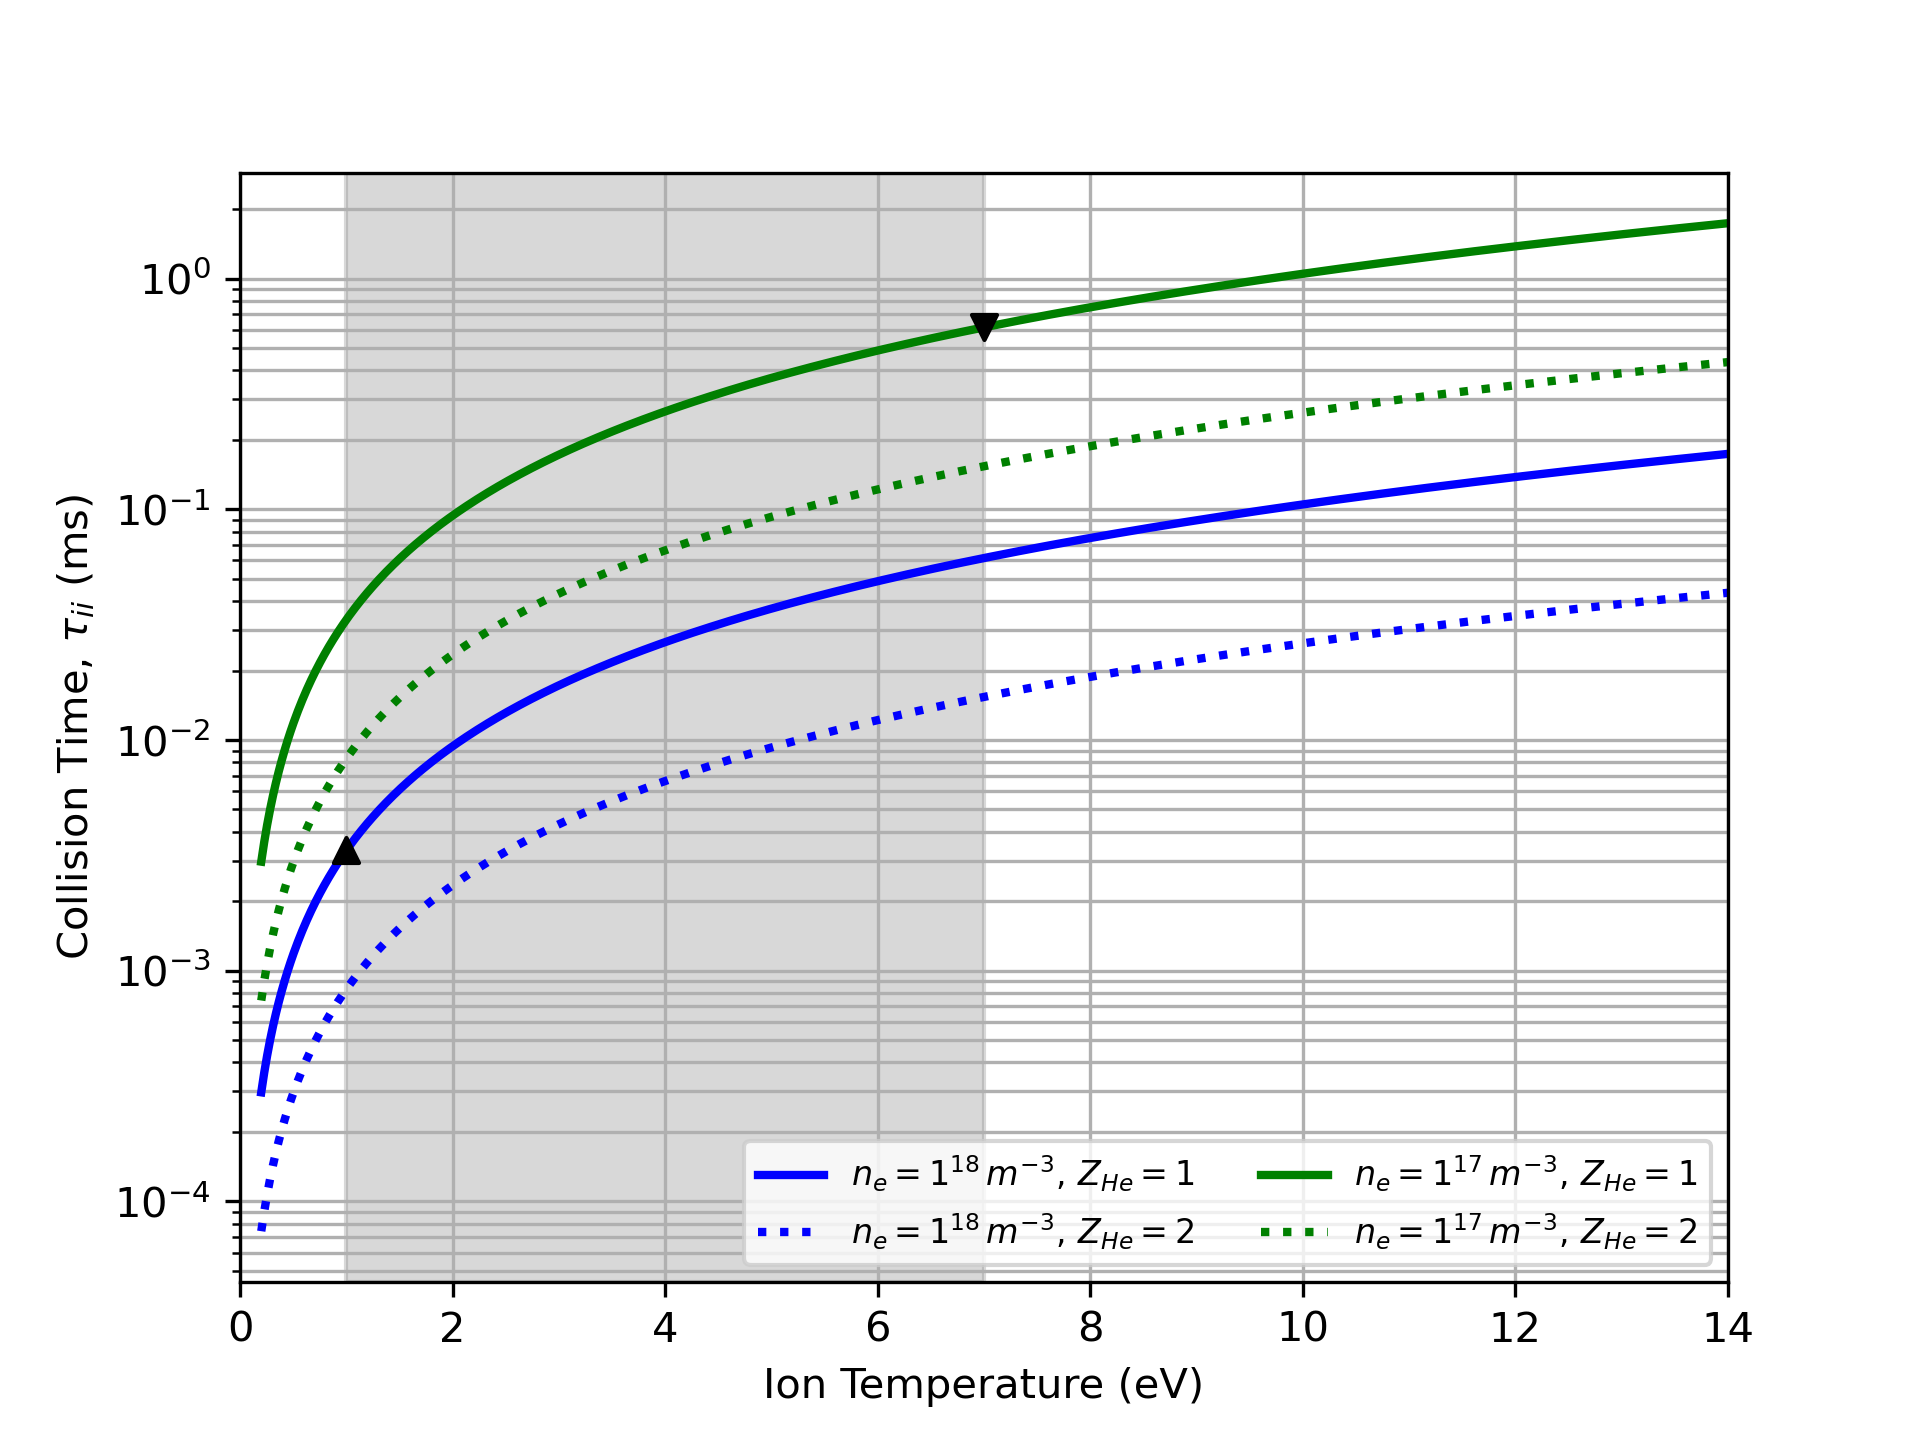
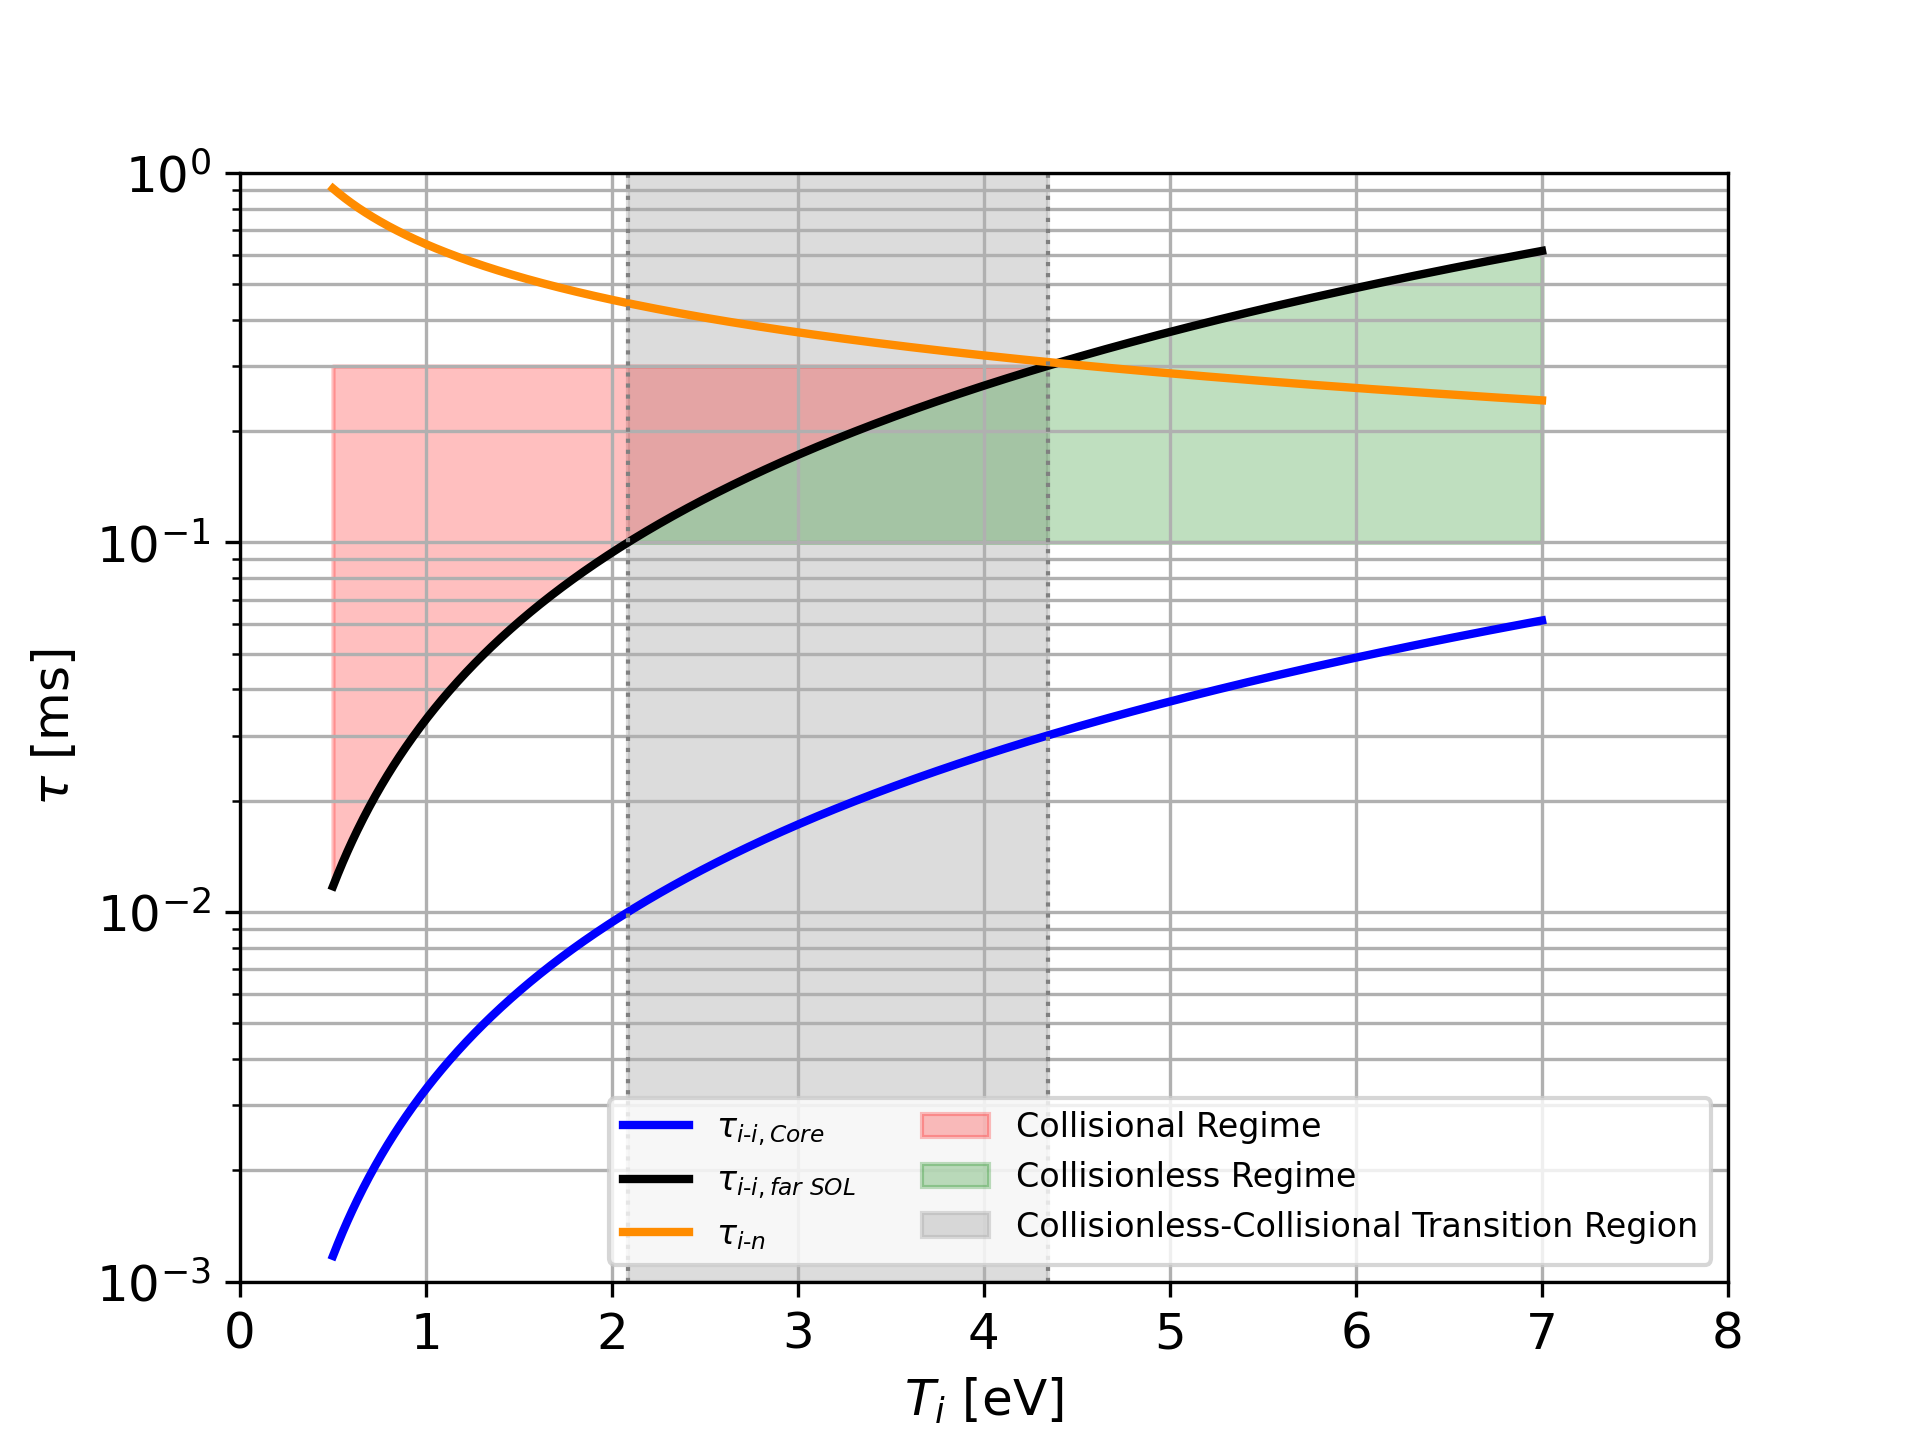
Reformatted collision frequency and ion residency plots for article

diff --git a/coll_freq_calculator.py b/coll_freq_calculator.py
@@ -7,6 +7,18 @@ import pandas as pd
 import matplotlib.pyplot as plt
 import classes.class_outputHandler as out
 from classes.mesh import *
+plt.rcParams.update({
+    # --- fonts & text (IOP-friendly, ~8–12 pt at final size) ---
+    #"font.family": "serif",
+    #"font.serif": ["Times New Roman", "Times", "Nimbus Roman", "DejaVu Serif"],
+    "mathtext.fontset": "dejavusans",
+    "axes.titlesize": 10,
+    "axes.labelsize": 12,
+    #"axes.labelweight": "bold",
+    "xtick.labelsize": 12,
+    "ytick.labelsize": 12,
+    "lines.linewidth": 1.0,
+})
 
 def collision_freq(ne, Ti, m_bg, z_bg, m_imp, z_imp, ln_lambda):
     """
@@ -34,6 +46,26 @@ def collision_freq(ne, Ti, m_bg, z_bg, m_imp, z_imp, ln_lambda):
 
     return f_coll
 
+def ion_neutral_collision_freq(ng, Ti):
+    """
+    Calculate the ion-neutral collision frequency.
+    
+    Parameters:
+    ng (float): Neutral density (m^-3)
+    Ti (float): Ion temperature (eV)
+    
+    Returns:
+    float: Ion-neutral collision frequency (s^-1)
+    """
+    # Convert neutral density from m^-3 to cm^-3
+    ng_cm3 = ng * 1e-6
+    
+    # Calculate the ion-neutral collision frequency using a typical formula
+    f_in = 5.2e-15 * ng * np.sqrt(Ti)  # Example formula, adjust as needed
+    
+    return f_in
+
+
 def main():
     # Example parameters
     m_bg_amu = 4.002602  # Mass of background species (Helium) in amu
@@ -43,8 +75,8 @@ def main():
 
     #z_bg = 1.0        # Effective charge state of background species (Helium)
     #ne_m3 = 1e18  # Electron density in m^-3
-    ti_plot_low = 0.2   # Ion temperature in eV
-    ti_plot_high = 14.0 # Ion temperature in eV
+    ti_plot_low = 0.5   # Ion temperature in eV
+    ti_plot_high = 7.0 # Ion temperature in eV
     Ti_ev = np.linspace(ti_plot_low, ti_plot_high, 1000)   # Ion temperature in eV
 
     f_coll_ne18 = collision_freq(1e18, Ti_ev, m_bg_amu, 1.0, m_imp_amu, z_imp, ln_lambda)
@@ -60,42 +92,88 @@ def main():
     tau_coll_ne18_z2He_ms = 1e3 / f_coll_ne18_z2He
     tau_coll_ne17_z2He_ms = 1e3 / f_coll_ne17_z2He
 
-    # extract the value of tau_coll_ne18_ms at Ti = 2 eV
-    typical_ionTemp_lo = 1.0 # eV
+    ## 'operating' domain
+    tau_residence_hi_ms = 0.3 # E ms
+    tau_residence_lo_ms = 0.1 # E ms
+    typical_ionTemp_lo = 0.5 # eV
     typical_ionTemp_hi = 7.0 # eV
+    transition_temp_lo = Ti_ev[tau_coll_ne17_ms >= tau_residence_lo_ms][0]
+    transition_temp_hi = Ti_ev[tau_coll_ne17_ms >= tau_residence_hi_ms][0]
 
-    tau_coll_lo = tau_coll_ne18_ms[np.argmin(np.abs(Ti_ev - typical_ionTemp_lo))]
-    print(f'Collision time at Ti={typical_ionTemp_lo} eV and ne=1e18 m^-3: {tau_coll_lo:.2e} ms')
-    print(f'Collision frequency at Ti={typical_ionTemp_lo} eV and ne=1e18 m^-3: {f_coll_ne18[np.argmin(np.abs(Ti_ev - typical_ionTemp_lo))]:.2e} s^-1')
+    # tau_coll_lo = tau_coll_ne18_ms[np.argmin(np.abs(Ti_ev - typical_ionTemp_lo))]
+    # print(f'Collision time at Ti={typical_ionTemp_lo} eV and ne=1e18 m^-3: {tau_coll_lo:.2e} ms')
+    # print(f'Collision frequency at Ti={typical_ionTemp_lo} eV and ne=1e18 m^-3: {f_coll_ne18[np.argmin(np.abs(Ti_ev - typical_ionTemp_lo))]:.2e} s^-1')
 
+    tau_coll_lo = tau_coll_ne17_ms[np.argmin(np.abs(Ti_ev - typical_ionTemp_lo))]
     tau_coll_hi = tau_coll_ne17_ms[np.argmin(np.abs(Ti_ev - typical_ionTemp_hi))]
+    print(f'Collision time at Ti={typical_ionTemp_lo} eV and ne=1e17 m^-3: {tau_coll_lo:.2e} ms')
     print(f'Collision time at Ti={typical_ionTemp_hi} eV and ne=1e17 m^-3: {tau_coll_hi:.2e} ms')
-    print(f'Collision frequency at Ti={typical_ionTemp_hi} eV and ne=1e17 m^-3: {f_coll_ne17[np.argmin(np.abs(Ti_ev - typical_ionTemp_hi))]:.2e} s^-1')
+    #print(f'Collision frequency at Ti={typical_ionTemp_hi} eV and ne=1e17 m^-3: {f_coll_ne17[np.argmin(np.abs(Ti_ev - typical_ionTemp_hi))]:.2e} s^-1')
+
+    f_ionNeutral_coll = ion_neutral_collision_freq(3e17, Ti_ev)  # Example neutral density of 1e19 m^-3
+    tau_ionNeutral_coll_ms = 1e3 / f_ionNeutral_coll
+    #print(f'Ion-neutral collision frequency at Ti={typical_ionTemp_lo} eV and ng=3e17 m^-3: {f_ionNeutral_coll[np.argmin(np.abs(Ti_ev - typical_ionTemp_lo))]:.2e} s^-1')
+    print(f'Ion-neutral collision time at Ti={typical_ionTemp_lo} eV and ng=3e17 m^-3: {tau_ionNeutral_coll_ms[np.argmin(np.abs(Ti_ev - typical_ionTemp_lo))]:.2e} ms') 
+    print(f'Ion-neutral collision time at Ti={typical_ionTemp_hi} eV and ng=3e17 m^-3: {tau_ionNeutral_coll_ms[np.argmin(np.abs(Ti_ev - typical_ionTemp_hi))]:.2e} ms') 
+
+    tau_star_lo_lowTemp = tau_residence_lo_ms / tau_coll_lo
+    tau_star_hi_lowTemp = tau_residence_hi_ms / tau_coll_lo
+    tau_star_lo_highTemp = tau_residence_lo_ms / tau_coll_hi
+    tau_star_hi_highTemp = tau_residence_hi_ms / tau_coll_hi
+    print(f'At Ti={typical_ionTemp_lo} eV and ne=1e17 m^-3, tau* ranges from {tau_star_lo_lowTemp:.2e} to {tau_star_hi_lowTemp:.2e}')
+    print(f'At Ti={typical_ionTemp_hi} eV and ne=1e17 m^-3, tau* ranges from {tau_star_lo_highTemp:.2e} to {tau_star_hi_highTemp:.2e}')
+
+
+
 
 
     plt.figure()
     plt.plot(Ti_ev, tau_coll_ne18_ms, marker='none', linewidth=2,
-              linestyle='-', color='blue', label='$n_e=1^{18} \, m^{-3}, \\, Z_{He}=1$')
-    plt.plot(Ti_ev, tau_coll_ne18_z2He_ms, marker='none', linewidth=2,
-              linestyle=':', color='blue', label='$n_e=1^{18} \, m^{-3}, \\, Z_{He}=2$')  
-
-
+             linestyle='-', color='blue', label='$\\tau_{i\\text{-}i,Core}$')
+             #linestyle='-', color='blue', label='$\\tau_{i\\text{-}i},~n_e=10^{18}$')
     plt.plot(Ti_ev, tau_coll_ne17_ms, marker='none', linewidth=2,
-              linestyle='-', color='green', label='$n_e=1^{17} \, m^{-3}, \\, Z_{He}=1$')
-    plt.plot(Ti_ev, tau_coll_ne17_z2He_ms, marker='none', linewidth=2,
-              linestyle=':', color='green', label='$n_e=1^{17} \, m^{-3}, \\, Z_{He}=2$')
+              linestyle='-', color='black', label='$\\tau_{i\\text{-}i,far~SOL}$')
+    plt.plot(Ti_ev, tau_ionNeutral_coll_ms, marker='none', linewidth=2,
+              linestyle='-', color='darkorange', label='$\\tau_{i\\text{-}n}$')
+              #linestyle='--', color='red', label='$\\tau_{i\\text{-}n}$')
 
-    plt.scatter(typical_ionTemp_lo, tau_coll_lo, marker='^', color='black', zorder=6)#, label='$n_e=1^{16} \, m^{-3}, \\, Z_{He}=1$')
-    plt.scatter(typical_ionTemp_hi, tau_coll_hi, marker='v', color='black', zorder=6)#, label='$n_e=1^{16} \, m^{-3}, \\, Z_{He}=1$')
 
-    plt.xlabel('Ion Temperature (eV)')
-    plt.ylabel('Collision Time, $\\tau_{ii}$ (ms)')
-    #plt.title('Collision Time vs Ion Temperature')
+    #collisional_bottom_line = np.maximum(tau_coll_ne17_ms, tau_residence_lo_ms)
+    collisional_bottom_line = tau_coll_ne17_ms
+    collisional_top_line = np.full_like(tau_coll_ne17_ms, tau_residence_hi_ms)
+    collisional_span = (Ti_ev >= typical_ionTemp_lo) & (Ti_ev <= transition_temp_hi)
+    plt.fill_between(Ti_ev[collisional_span],
+                        collisional_bottom_line[collisional_span],
+                        collisional_top_line[collisional_span],
+                        color='red', alpha=0.25, label='Collisional Regime')
+    
+    #collisionless_top_line = np.minimum(tau_coll_ne17_ms, tau_residence_hi_ms)
+    #collisionless_top_line = np.minimum(tau_coll_ne17_ms, tau_ionNeutral_coll_ms)
+    collisionless_top_line = tau_coll_ne17_ms
+    collisionless_botom_line = np.full_like(tau_coll_ne17_ms, tau_residence_lo_ms)
+    collisionless_span = (Ti_ev <= typical_ionTemp_hi) & (Ti_ev >= transition_temp_lo)
+    plt.fill_between(Ti_ev[collisionless_span], 
+                        collisionless_botom_line[collisionless_span],
+                        collisionless_top_line[collisionless_span],
+                        color='green', alpha=0.25, label='Collisionless Regime')
+
+
+    plt.axvspan(transition_temp_lo, transition_temp_hi,
+                 color='darkgray', alpha=0.4, label='Collisionless-Collisional Transition Region', zorder=0)
+    plt.axvline(transition_temp_lo, color='gray', linestyle=':')#, label='Typical Operating Range')
+    plt.axvline(transition_temp_hi, color='gray', linestyle=':')#, label='Typical Operating Range')
+    # plt.axhspan(tau_residence_lo_ms, tau_residence_hi_ms, color='gray', alpha=0.3, label='Residence Time Range')
+    # plt.axvspan(typical_ionTemp_lo, typical_ionTemp_hi, color='gray', alpha=0.3, label='Operating Range')
+
+    plt.xlabel('$T_i~\\text{[eV]}$')
+    plt.ylabel('$\\tau~\\text{[ms]}$')#_{i\\text{-}i}~\\text{[ms]}$')
+  
     plt.grid(which='both')
-    plt.axvspan(typical_ionTemp_lo, typical_ionTemp_hi, color='gray', alpha=0.3)#, label='Typical Core-Edge Ion Temperature Range')
-    plt.xlim(0, ti_plot_high)
+    plt.xlim(0, 8)#ti_plot_high)
+    plt.ylim(1e-3, 1e0)#ti_plot_high)
     plt.yscale('log')
     plt.legend(loc='lower right', fontsize=8, ncol=2)
+    #plt.tight_layout()
     #plt.show()
     plt.savefig("collision_time_vs_Ti.png", dpi=300)
 

diff --git a/plot_SurvivalFunctions.py b/plot_SurvivalFunctions.py
@@ -1,0 +1,202 @@
+## IMPORTS
+import numpy as np
+from time import perf_counter
+
+from classes.iohandler import IOHandler
+from classes.meshNew import *
+from plot_InitEnergies import FIELD_SCALE_ELECTRIC, ION_TEMP
+from utility.coordtrans import *
+from utility.anlys_funcs import *
+from classes.particle import *
+#import plot_funcs.plotFuncs as plotFuncs
+from plot_funcs.plotFuncs import *
+
+## SOME PHYSICAL CONSTANTS
+kg_per_amu = 1.660_539_068E-27
+kboltz = 1.602_176_634E-19 # Joules/eV
+Li_mass = 6.941 #amu
+He_mass = 4.002602 #amu
+
+
+## SET SIMULATION INPUTS: ##
+
+INPUT_DIRECTORY_NAME = "It-0486_Ih-0900_noErr_1500sp_LSODA1e8"
+# INITIAL CONDITIONS
+LCFS_INDEX = 40 #30 #29 #40 (from Poincare output (simIO.log))
+DELTRS = [0.000] # [m]
+NPHI = 180
+NTHETA = 120
+NPARTICLES_PER_EMITTER = 50
+# SIMULATION PARAMETERS
+DT = 1e-8 # [s]
+TMAX = 0.0010 # [s]
+NSTEPS = int(TMAX / DT)
+# ION PROPERTIES
+ION_MASS = Li_mass # [amu]
+CHARGE_NUM = 1 # [Z]
+
+
+input_conditions = [
+    {#IonsVtime_0mm_LCFS40_5eV_120V_Z1_Lithium_FS40_tauRes_1p0m
+        "ION_TEMP": 5.0,  # [eV]
+        "FIELD_SCALE_ELECTRIC": 120.0,  # [Volts]
+        "TAG": "Lithium_FS40_tauRes_1p0ms",
+        "N_PARTICLES": 360000
+        },
+    {#IonsVtime_0mm_LCFS30_1eV_60V_Z1_Lithium_FS40_2
+        "ION_TEMP": 1.0,  # [eV]
+        "FIELD_SCALE_ELECTRIC": 60.0,  # [Volts]
+        "TAG": "Lithium_FS40_2",
+        "N_PARTICLES": 720000
+        },
+
+    {#IonsVtime_0mm_LCFS40_5eV_40V_Z1_Lithium_FS40_tauRes_1p0ms
+        "ION_TEMP": 5.0,  # [eV]
+        "FIELD_SCALE_ELECTRIC": 40.0,  # [Volts]
+        "TAG": "Lithium_FS40_tauRes_1p0ms",
+        "N_PARTICLES": 360000
+        },
+    {#IonsVtime_0mm_LCFS40_2eV_40V_Z1_Lithium_FS40_1p0ms_PHANGLE2
+        "ION_TEMP": 2.0,  # [eV]
+        "FIELD_SCALE_ELECTRIC": 40.0,  # [Volts]
+        "TAG": "Lithium_FS40_1p0ms_PHANGLE2",
+        "N_PARTICLES": 1080000
+        }
+    ]
+
+
+OUTPUT_DIRECTORY_NAME = 'SURVIVAL_TEST'
+
+def calculate_tau(maxN_array, tot_particles, tmax, dt):
+    """Plots the percent of particles running over time.
+        maxN_array is an array of maximum timestep for each particle.
+    """
+
+    # Calculate the number of particles running over time (efficiently)
+    time_steps = np.arange(0, tmax, dt)
+    time_ms = time_steps * 1000
+    sorted_maxTime = np.sort(maxN_array) * dt
+
+    immortal_particles = tot_particles - len(maxN_array)  # Count particles that never hit the wall
+    print(f"Immortal particles (never hit the wall): {immortal_particles} out of {tot_particles}")
+
+    # Use searchsorted to find how many particles have maxTime > t for each t
+    particles_running = len(sorted_maxTime) - np.searchsorted(sorted_maxTime, time_steps, side='right')
+
+
+    frac_running = (particles_running + immortal_particles) / tot_particles  # include immortal particles in the fraction running
+
+    # Estimate residence time using trapezoidal integration of the fraction running over time
+    tau_res = np.trapezoid(frac_running, dx=dt)
+    if frac_running[-1] > 0:
+        slope = (np.log(frac_running[-1]) - np.log(frac_running[-101])) / 100 / dt # use wider range for slope to reduce noise
+        slope = min(slope, -1e-1)  # prevent division by zero or very small slope
+        tau_res_corr = -frac_running[-1] / slope
+    else:
+        tau_res_corr = 0.0
+
+    tau_res_est = tau_res + tau_res_corr
+    tau_res_est_clamped = np.clip(tau_res_est, time_steps[0], time_steps[-1])
+    frac_at_tau_res = np.interp(tau_res_est_clamped, time_steps, frac_running)
+
+    return (tau_res, tau_res_corr, frac_at_tau_res, time_ms, frac_running)
+
+
+def plot_survivalFunction(out_conditions, in_conditions, runString='default', simIO=None):
+
+    plt.figure(figsize=(8, 5))
+
+    condition_colors = [
+        UIUC['il_stormdark1'],
+        UIUC['il_blue'],
+        UIUC['il_orange'],
+        UIUC['il_storm'],
+    ]
+    condition_markers = ['o', 's', 'D', '^']
+
+    for idx, (condition_out, condition_in) in enumerate(zip(out_conditions, in_conditions)):
+
+        cond_color = condition_colors[idx % len(condition_colors)] # %cycling
+
+
+        tau_res, tau_res_corr, frac_at_tau_res, time_ms, frac_running = condition_out
+        ion_temp = condition_in['ION_TEMP']
+        field_scale_electric = condition_in['FIELD_SCALE_ELECTRIC']
+
+        tau_res_est = tau_res + tau_res_corr
+    
+        plt.plot(time_ms, frac_running, color='k', linewidth=1.)#, label='Particles Running')
+        plt.fill_between(time_ms, frac_running, color=UIUC['il_blue'], alpha=0.25)
+
+        plt.scatter(tau_res_est*1000, frac_at_tau_res, marker=condition_markers[idx % len(condition_markers)], color=cond_color,
+                     label=f'$\\mathrm{{ {ion_temp}eV, {field_scale_electric:.0f}V}}$', zorder=5)
+        plt.vlines(tau_res_est*1000, 0.0, frac_at_tau_res,
+                 color=cond_color, linestyle='--',
+                   label=f'$\\tau={tau_res_est*1000:.3f}ms$', zorder=5)
+    
+
+
+
+    plt.xlabel('$t~[ms]$', fontsize=12)
+    plt.ylabel('$\\dfrac{N_{active}}{N_{total}}$', fontsize=12, rotation=0, labelpad=22)
+    # plt.title('Estimated Residence Time = {:.3f}$\\mathit{{(+{:.3f}ms~correction) }}$'
+    #           .format(tau_res*1000, tau_res_corr*1000), fontsize=12)
+
+
+    plt.xlim(0, time_ms[-1])    
+    plt.ylim(0, 1.05)
+    plt.xticks(np.arange(0, time_ms[-1]+0.1, 0.1), fontsize=12)
+    plt.yticks(fontsize=12)
+    plt.grid(which='both', linestyle='--', alpha=0.5)
+    plt.legend(loc='upper right', fontsize=9.5, ncols=4)
+    #plt.show()
+    plotname = 'IonsVtime_' + runString + '.png'
+    simIO.saveFig(plotname, dpi=300)
+    simIO.log.info('OUTPUT PLOT: {}, residence time = {:.3f}ms, corr = {:.3f}ms,'
+                   .format(plotname, tau_res*1000, tau_res_corr*1000))
+    plt.close()
+
+
+def main():
+    ## SET UP RUN DIRECTORY AND LOGGING
+    ## DATA AND PLOTS *WILL* BE OVERWRITTEN IF THE DIRECTORY ALREADY EXISTS!!
+    simOUT = IOHandler(OUTPUT_DIRECTORY_NAME) 
+    simOUT.startLog()
+    simIO = IOHandler(INPUT_DIRECTORY_NAME) 
+
+    output_conditions = []
+    ## LOAD DATA LOOP
+    for condition in input_conditions:
+        tag = condition['TAG']
+        ion_temp = condition['ION_TEMP']
+        field_scale_electric = condition['FIELD_SCALE_ELECTRIC']
+        N_particles = condition['N_PARTICLES']
+        simOUT.log.info('## RUNNING CONDITION: {} ##'.format(tag))
+
+        ## DEFINE STRING (FOR FILE NAME)
+        delimiter = '-'
+        dr_String = delimiter.join(str(int(dr*1000)) for dr in DELTRS)
+        cond_string = dr_String + 'mm_LCFS{}_{}eV_{}V_Z{}_'.format(
+            int(LCFS_INDEX), int(ion_temp), int(field_scale_electric), int(CHARGE_NUM)
+        )
+
+        ## LOAD WALL POINTS
+        filename = 'Wallpt_OUTPUT_' + cond_string + tag
+        outputArray = simIO.loadNumpyData(filename+'.npy')
+        max_timeStep = outputArray[6, :]  # max time step for each particle
+
+        output = calculate_tau(max_timeStep, N_particles, TMAX, DT)
+
+        print(f"Condition: {tag}, Estimated Residence Time = {output[0]*1000:.3f}ms, Correction = {output[1]*1000:.3f}ms, Fraction at Residence Time = {output[2]:.3f}" )
+
+        output_conditions += [output]
+
+
+    plot_survivalFunction(output_conditions, input_conditions, runString='SURVIVALTEST', simIO=simOUT)
+
+    ## END RUN ##
+    simOUT.log.info('## SIM FINISHED! ##\n\n\n')
+
+
+if __name__ == "__main__":
+    main()
